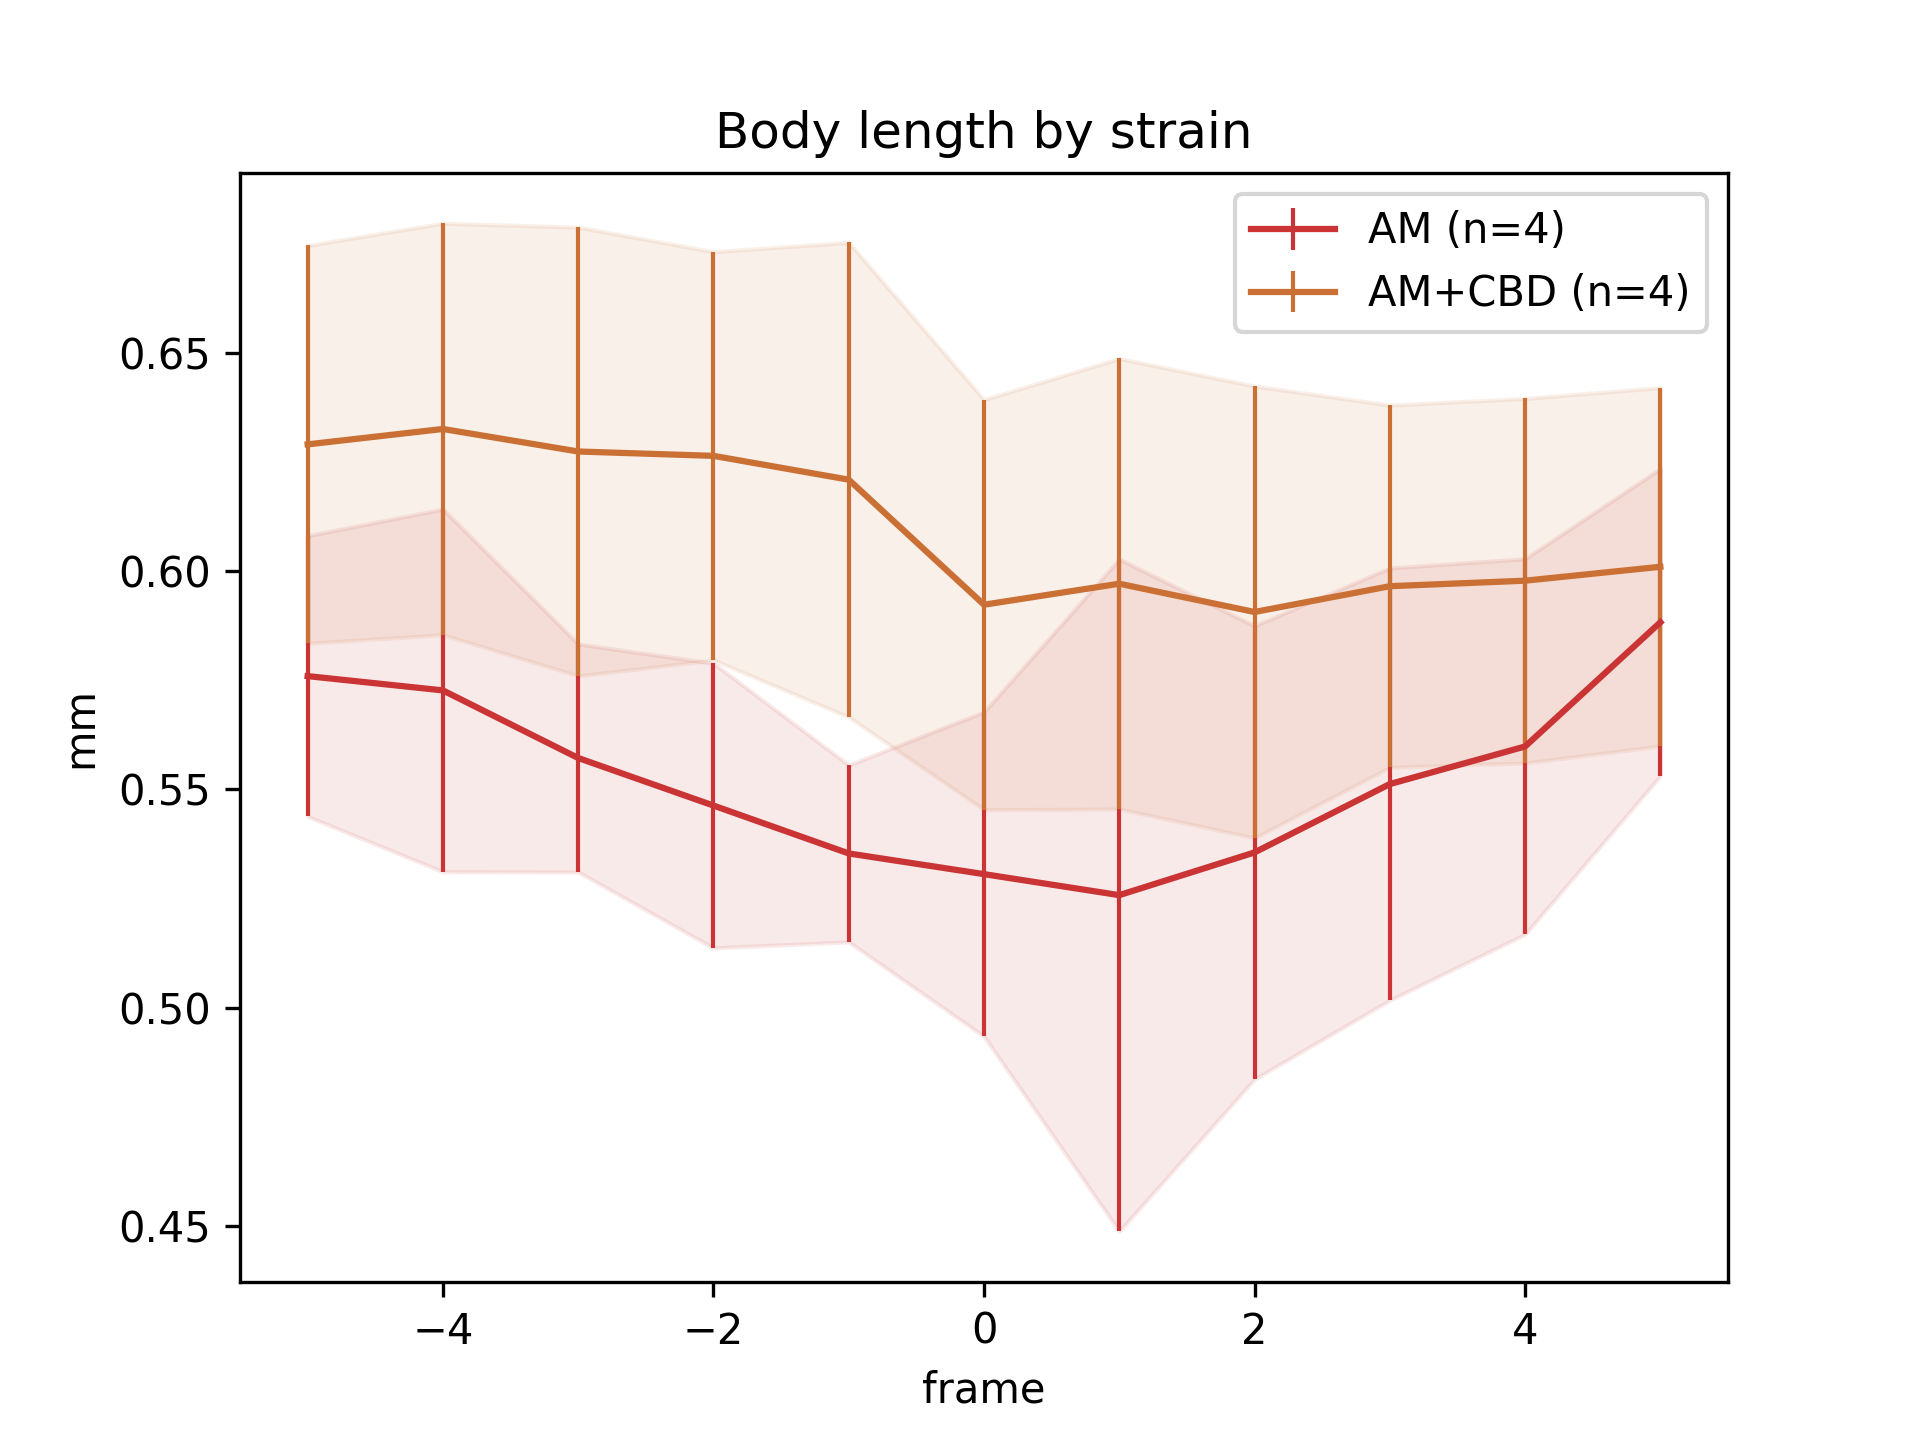
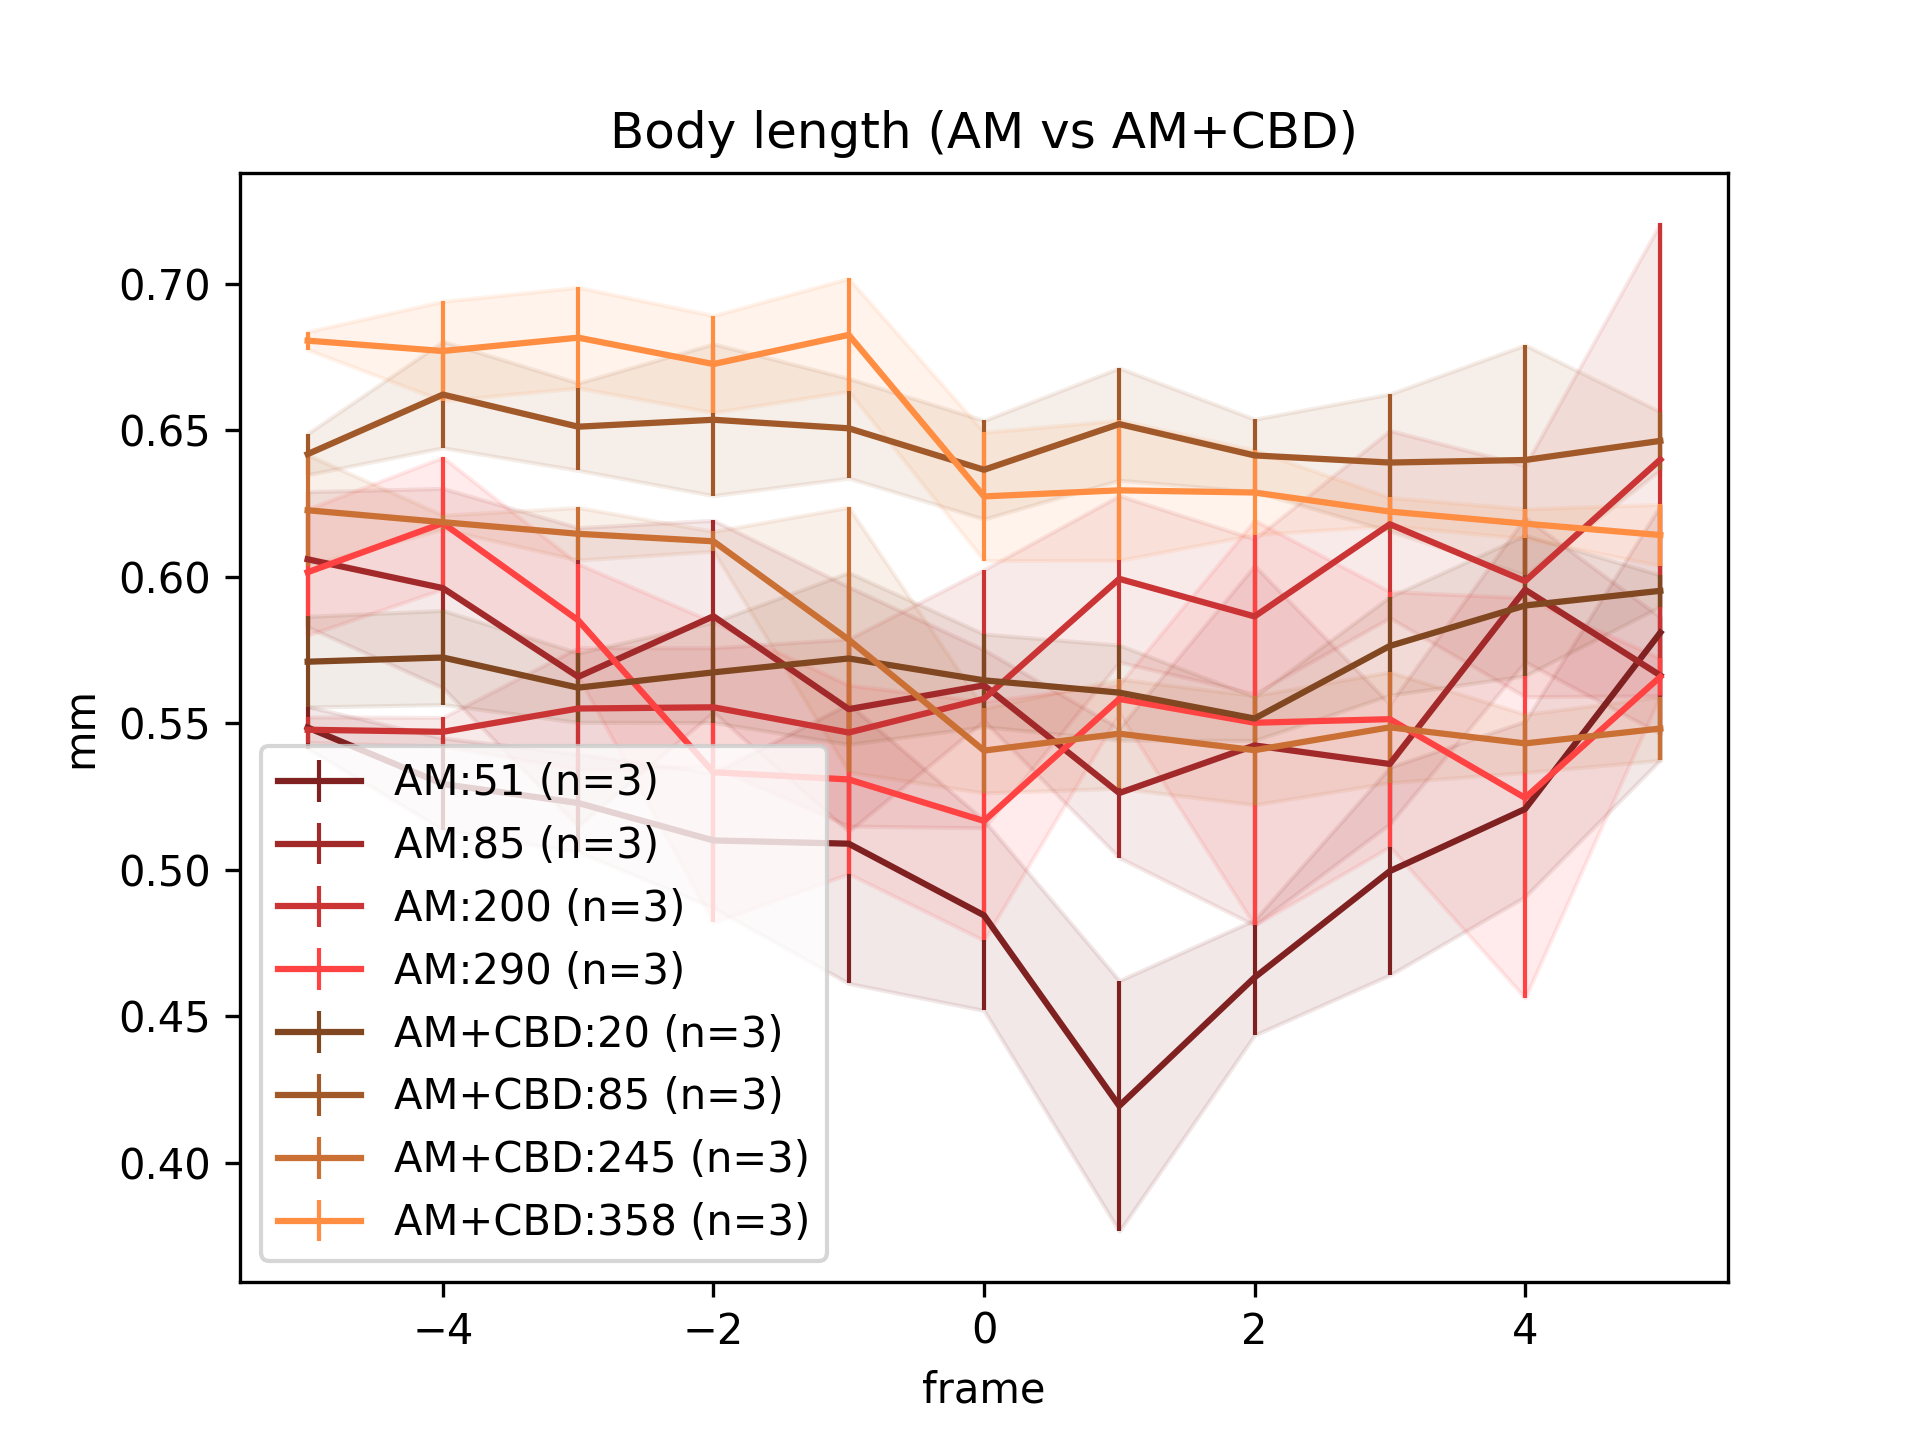
final pictures ith

diff --git a/process/compare.py b/process/compare.py
@@ -121,7 +121,7 @@ def jankily_collate_by_worm(dfdss):
         annotators_by_worm = defaultdict(list)
         for dfd_per_author in dfds_per_strain:
             dfd = dfd_per_author
-            print('dfd', dfd, '\n\n\n')
+            # print('dfd', dfd, '\n\n\n')
             annotators_by_worm[f"{dfd['video']}:{dfd['time']}"].append(dfd)
 
         # TODO: average standard deviation https://www.statology.org/averaging-standard-deviations/
@@ -143,8 +143,8 @@ def jankily_make_line_plot(dfdss, col,
     means = [jankily_mean(dfds) for dfds in dfdss]
     stddevs = [jankily_stddev(dfds) for dfds in dfdss]
 
-    for df in means: print(df); print('\n')
-    for df in stddevs: print(df); print('\n')
+    # for df in means: print(df); print('\n')
+    # for df in stddevs: print(df); print('\n')
 
     for n, mean, stdd, color, label in zip(sizes, means, stddevs, colors, labels):
         mean = np.array([x for x in mean[col] if not math.isnan(x)])
@@ -346,55 +346,38 @@ if __name__ == '__main__':
 
     # POSTER TODO: realign headings; how to collate multiple worms of the same strain
 
+    # comparing indivudal worms, possibly across strains
+    # worms, labels, colors, strains = [f'AL.ALS.3.25.22.#6.mp4:{time}' for time in [56, 64, 99, 159, 224, 242, 332, 481, 607]], [f'N2+CBD:{time}' for time in [56, 64, 99, 159, 224, 242, 332, 481, 607]], hsv_cmap(9, *COLOR_N2OIL_HS).colors, ['N2+CBD']   # all of the N2+CBDs
+    # worms, labels, colors, strains = [f'LA.ALS.3.25.22.#2.mp4:{time}' for time in [70, 222, 309]] + [f'AL.ALS.3.25.22.#6.mp4:{time}' for time in [56, 64, 99]], [f'N2:{time}' for time in [70, 22, 309]] + [f'N2+CBD:{time}' for time in [56, 64, 99]], list(hsv_cmap(3, *COLOR_N2_HS).colors) + list(hsv_cmap(3, *COLOR_N2OIL_HS).colors), ['N2', 'N2+CBD']  # N2 vs N2 + CBD individuals
+    worms, labels, colors, strains = [f'LA.ALS.3.25.22.#3.mp4:{time}' for time in [51, 85, 200, 290]] + [f'LA.ALS.3.25.22.#7.mp4:{time}' for time in [20, 85, 245, 358]], [f'AM:{time}' for time in [51, 85, 200, 290]] + [f'AM+CBD:{time}' for time in [20, 85, 245, 358]], list(hsv_cmap(4, *COLOR_AM_HS).colors) + list(hsv_cmap(4, *COLOR_AMOIL_HS).colors), ['AM', 'AM+CBD']  # AM vs AM + CBD individuals
 
-
-
-    # # random worms (one per strain)
-    # # worms = ['LA.ALS.3.25.22.#1.mp4:90', 'AL.ALS.3.25.22.#6.mp4:56', 'LA.ALS.3.25.22.#7.mp4:20']  # worms of different strains
-    #
-    # # worms = [f'AL.ALS.3.25.22.#6.mp4:{time}' for time in [56, 64, 99, 159, 224, 242, 332, 481, 607]]
-    # # labels = [f'CB1338 + CBD:{time}' for time in [56, 64, 99, 159, 224, 242, 332, 481, 607]]
-    # # worms_dfdss = [dfd_filter(datas, notauthor=['zander'], worm=worm) for worm in worms]
-    # # jankily_make_line_plot(worms_dfdss, 'ellipse_ecentricity', labels=labels, title="Ellipse ecentricity (CB1338 + CBD)", ylabel='mm', colors=hsv_cmap(len(worms), *COLOR_N2_HS).colors)
-    # # # jankily_make_line_plot(worms_dfdss, 'v0', labels=labels, title="Centroid velocity (CB1338 + CBD)", ylabel='mm', colors=hsv_cmap(len(worms), *COLOR_N2_HS).colors)
-
-    # all the N2 + CB1338
-    # worms = [f'AL.ALS.3.25.22.#6.mp4:{time}' for time in [56, 64, 99, 159, 224, 242, 332, 481, 607]]
-    # labels = [f'N2 + CBD:{time}' for time in [56, 64, 99, 159, 224, 242, 332, 481, 607]]
-    # worms_dfdss = [dfd_filter(datas, notauthor=['zander'], worm=worm) for worm in worms]
-    # # jankily_make_line_plot(worms_dfdss, 'arclen', labels=labels, title="Body length (N2 + CBD)", ylabel='mm', colors=hsv_cmap(len(worms), *COLOR_N2OIL_HS).colors)
-    # # jankily_make_line_plot(worms_dfdss, 'ellipse_ecentricity', labels=labels, title="Ellipse ecentricity (N2 + CBD)", ylabel='(unitless, 0-1)', colors=hsv_cmap(len(worms), *COLOR_N2OIL_HS).colors)
-    # # jankily_make_line_plot(worms_dfdss, 'heading', labels=labels, title="Heading (N2 + CBD)", ylabel='degrees', colors=hsv_cmap(len(worms), *COLOR_N2OIL_HS).colors)
-    # jankily_make_line_plot(worms_dfdss, 'v0', labels=labels, title="Centroid velocity (N2 + CBD)", ylabel='mm/frame', colors=hsv_cmap(len(worms), *COLOR_N2OIL_HS).colors)
-
-    # N2 vs N2 + CB1338
-    # worms =  [f'LA.ALS.3.25.22.#2.mp4:{time}' for time in [70, 222, 309]] + [f'AL.ALS.3.25.22.#6.mp4:{time}' for time in [56, 64, 99]]
-    # labels = [f'N2:{time}' for time in [70, 22, 309]] + [f'N2 + CBD:{time}' for time in [56, 64, 99]]
-    # colors = list(hsv_cmap(3, *COLOR_N2_HS).colors) + list(hsv_cmap(3, *COLOR_N2OIL_HS).colors)
-    # print(colors)
-    # worms_dfdss = [dfd_filter(datas, notauthor=['zander'], worm=worm) for worm in worms]
-    # # jankily_make_line_plot(worms_dfdss, 'arclen', labels=labels, title="Body length (N2 + CBD  vs  N2)", ylabel='mm', colors=colors)
-    # # jankily_make_line_plot(worms_dfdss, 'ellipse_ecentricity', labels=labels, title="Ellipse ecenctricity (N2 + CBD  vs  N2)", ylabel='(unitless, 0-1)', colors=colors)
-    # # jankily_make_line_plot(worms_dfdss, 'heading', labels=labels, title="Heading (N2 + CBD  vs  N2)", ylabel='degrees', colors=colors)
-    # jankily_make_line_plot(worms_dfdss, 'v0', labels=labels, title="Centroid velocity (N2 + CBD  vs  N2)", ylabel='mm/frame', colors=colors)
-
-
-    # all worms in the strain
-    # strains, colors = ['N2', 'N2+CBD', 'CB'], [COLOR_N2, COLOR_AM, COLOR_CB]
-    # strains, colors = ['N2', 'N2+CBD'], [COLOR_N2, COLOR_N2OIL]
-    # strains, colors = ['N2', 'AM+CBD'], [COLOR_N2, COLOR_AMOIL]
-    strains, colors = ['N2', 'AM', 'AM+CBD', 'CB'], [COLOR_N2, COLOR_AM, COLOR_AMOIL, COLOR_CB]
-    data_in_strains = [dfd_filter(datas, notauthor=['zander'], strain=strain) for strain in strains]
-    print([len(x) for x in data_in_strains])
-    data_in_strains = jankily_collate_by_worm(data_in_strains)
+    worms_dfdss = [dfd_filter(datas, notauthor=['zander'], worm=worm) for worm in worms]
+    print(len(worms_dfdss), [len(x) for x in worms_dfdss])
 
     metric_id = ['arclen', 'ellipse_ecentricity', 'heading', 'v0']
     metric_display = ['Body length', 'Ellipse eccentricity', 'Heading', 'Centroid speed']
     metric_units = ['mm', '(unitless, 0-1)', 'degrees', 'mm/frame']
     for id, display, units in zip(metric_id, metric_display, metric_units):
-        jankily_make_line_plot(data_in_strains, id, labels=strains, title=f"{display} by strain", ylabel=units, colors=colors)
+        jankily_make_line_plot(worms_dfdss, id, labels=labels, title=f"{display} ({' vs '.join(strains)})", ylabel=units, colors=colors)
         plt.savefig(f"out/{','.join(strains)}-{id}.png", dpi=300)
         # input('press enter to continue')
+
+    # # all worms in the strain
+    # # strains, colors = ['N2', 'N2+CBD', 'CB'], [COLOR_N2, COLOR_AM, COLOR_CB]
+    # # strains, colors = ['N2', 'N2+CBD'], [COLOR_N2, COLOR_N2OIL]
+    # # strains, colors = ['N2', 'AM+CBD'], [COLOR_N2, COLOR_AMOIL]
+    # strains, colors = ['N2', 'AM', 'AM+CBD', 'CB'], [COLOR_N2, COLOR_AM, COLOR_AMOIL, COLOR_CB]
+    # data_in_strains = [dfd_filter(datas, notauthor=['zander'], strain=strain) for strain in strains]
+    # print([len(x) for x in data_in_strains])
+    # data_in_strains = jankily_collate_by_worm(data_in_strains)
+    #
+    # metric_id = ['arclen', 'ellipse_ecentricity', 'heading', 'v0']
+    # metric_display = ['Body length', 'Ellipse eccentricity', 'Heading', 'Centroid speed']
+    # metric_units = ['mm', '(unitless, 0-1)', 'degrees', 'mm/frame']
+    # for id, display, units in zip(metric_id, metric_display, metric_units):
+    #     jankily_make_line_plot(data_in_strains, id, labels=strains, title=f"{display} by strain", ylabel=units, colors=colors)
+    #     plt.savefig(f"out/{','.join(strains)}-{id}.png", dpi=300)
+    #     # input('press enter to continue')
 
     # show data distribution
     # print([(dfd['author'], dfd['df']) for dfd in datas_n2])
